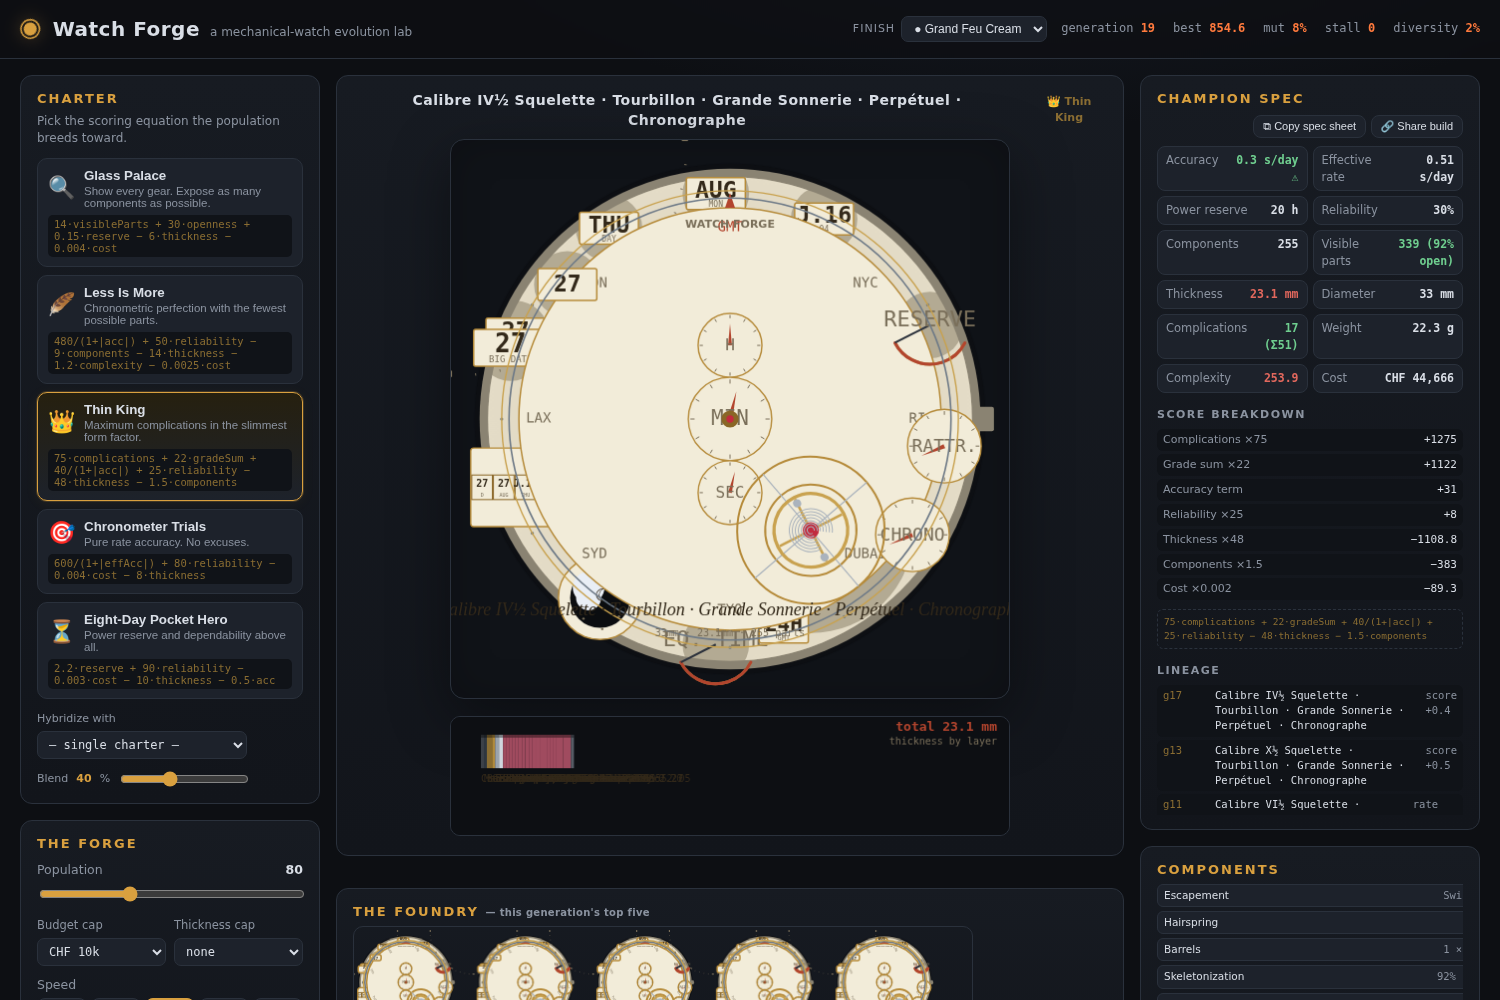
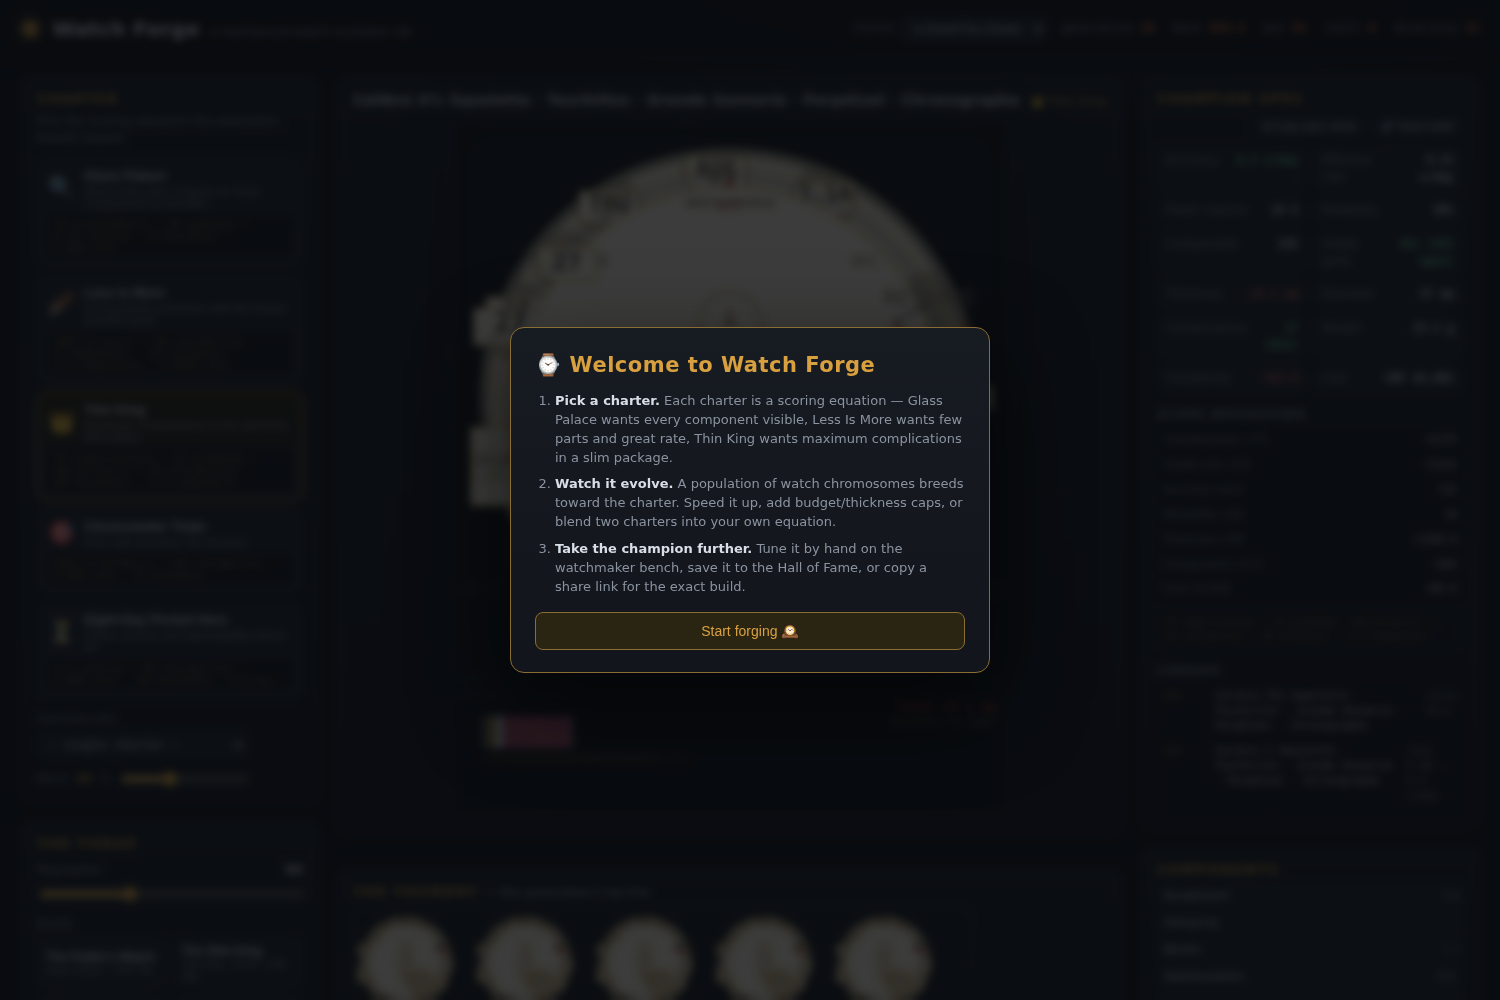
Watch Forge: first-run briefing + named briefs
- Three-step onboarding overlay (localStorage-persisted dismissal; primes
  audio on the dismiss click for autoplay policies)
- Named briefs in the Forge card: one-click charter+cap+blend scenarios
  (Public's Watch, Slim King, School of Chronometry, Traveler) that reuse
  the real charter/hybrid/constraint paths
- 2 new e2e checks (17 total); docs updated

diff --git a/active/games/watch-forge/game.js b/active/games/watch-forge/game.js
@@ -76,6 +76,8 @@
     hof: $('#hofList'), saveHof: $('#saveHofBtn'),
     exportBtn: $('#exportBtn'),
     shareBtn: $('#shareBtn'),
+    briefList: $('#briefList'),
+    briefing: $('#briefing'), briefingDismiss: $('#briefingDismiss'),
     lineup: $('#lineupCanvas'),
     themePick: $('#themePick'),
     budgetCap: $('#budgetCap'), thicknessCap: $('#thicknessCap'),
@@ -667,14 +669,74 @@
   }
 
   // -----------------------------------------------------------------------
+  // Named briefs — preconfigured charter + constraint scenarios
+  // -----------------------------------------------------------------------
+  const BRIEFS = [
+    { id: 'public', label: 'The Public’s Watch', hint: 'Glass Palace · CHF 15k',
+      challengeId: 'skeleton', budget: 15000, thickness: 12, hybrid: null },
+    { id: 'slim', label: 'The Slim King', hint: 'Thin King · 8 mm · CHF 30k',
+      challengeId: 'grandComplication', budget: 30000, thickness: 8, hybrid: null },
+    { id: 'chrono', label: 'The School of Chronometry', hint: 'Chronometer · CHF 8k · 8 mm',
+      challengeId: 'chronometer', budget: 8000, thickness: 8, hybrid: null },
+    { id: 'traveler', label: 'The Traveler', hint: '60/40 Thin King × Chronometer · CHF 20k',
+      challengeId: 'grandComplication', budget: 20000, thickness: 0,
+      hybrid: { primary: 'grandComplication', secondary: 'chronometer', weight: 0.4 } },
+  ];
+
+  function buildBriefs() {
+    els.briefList.innerHTML = BRIEFS.map(b =>
+      `<button class="brief" data-id="${b.id}"><b>${b.label}</b><span>${b.hint}</span></button>`).join('');
+    els.briefList.querySelectorAll('.brief').forEach(btn => {
+      btn.addEventListener('click', () => {
+        const brief = BRIEFS.find(b => b.id === btn.dataset.id);
+        applyBrief(brief);
+      });
+    });
+  }
+
+  function applyBrief(brief) {
+    // 1) Charter (reuses the real charter-click path).
+    const btn = els.challenges.querySelector(`.challenge[data-id="${brief.challengeId}"]`);
+    if (btn) btn.click();
+    // 2) Hybrid blend, if the brief carries one.
+    if (brief.hybrid) {
+      els.hybridSel.value = brief.hybrid.secondary;
+      els.hybridSel.dispatchEvent(new Event('change'));
+      els.hybridWeight.value = String(Math.round(brief.hybrid.weight * 100));
+      els.hybridWeight.dispatchEvent(new Event('input'));
+    }
+    // 3) Constraint caps.
+    els.budgetCap.value = String(brief.budget || 0);
+    els.thicknessCap.value = String(brief.thickness || 0);
+    els.budgetCap.dispatchEvent(new Event('change'));
+    els.thicknessCap.dispatchEvent(new Event('change'));
+    G.history.push({ gen: G.generation, name: G.champion.pheno.name, note: `brief: ${brief.label}` });
+    updateChampionUI();
+  }
+
+  // -----------------------------------------------------------------------
   // Init
   // -----------------------------------------------------------------------
   function init() {
     els.rngSeed.textContent = String(G.rngSeed);
     buildChallenges();
     buildSpeeds();
+    buildBriefs();
     buildWatchmaker();
     loadHof(); renderHof();
+
+    // First-run briefing.
+    let seenBriefing = true;
+    try { seenBriefing = !!localStorage.getItem('watchforge.seen'); } catch { /* private mode */ }
+    if (!seenBriefing) {
+      els.briefing.hidden = false;
+      els.briefingDismiss.addEventListener('click', () => {
+        els.briefing.hidden = true;
+        try { localStorage.setItem('watchforge.seen', '1'); } catch { /* ignored */ }
+        // Prime audio for the first time interactively (autoplay policies).
+        if (els.soundTick.checked) { G.soundOn = true; S.setEnabled(true); }
+      });
+    }
 
     els.popSize.addEventListener('input', () => {
       G.popSize = Number(els.popSize.value);

diff --git a/active/games/watch-forge/index.html b/active/games/watch-forge/index.html
@@ -57,6 +57,10 @@
           <label for="popSize">Population <b id="popSizeVal">80</b></label>
           <input type="range" id="popSize" min="20" max="200" step="10" value="80">
         </div>
+        <div class="control-row">
+          <label>Briefs</label>
+          <div id="briefList" class="brief-row"></div>
+        </div>
         <div class="control-grid">
           <label>Budget cap
             <select id="budgetCap">
@@ -173,6 +177,18 @@
     <p>Every champion renders as a live skeletonized movement — gears mesh, the escapement ticks, the balance swings.</p>
     <p>Watch Forge · vanilla JS + Canvas 2D, no build step</p>
   </footer>
+
+  <div id="briefing" class="briefing" hidden>
+    <div class="briefing-card">
+      <h2>⌚ Welcome to Watch Forge</h2>
+      <ol class="briefing-steps">
+        <li><b>Pick a charter.</b> Each charter is a scoring equation — Glass Palace wants every component visible, Less Is More wants few parts and great rate, Thin King wants maximum complications in a slim package.</li>
+        <li><b>Watch it evolve.</b> A population of watch chromosomes breeds toward the charter. Speed it up, add budget/thickness caps, or blend two charters into your own equation.</li>
+        <li><b>Take the champion further.</b> Tune it by hand on the watchmaker bench, save it to the Hall of Fame, or copy a share link for the exact build.</li>
+      </ol>
+      <button id="briefingDismiss" class="btn btn-accent">Start forging 🕰</button>
+    </div>
+  </div>
 
   <script src="data.js"></script>
   <script src="watch.js"></script>

diff --git a/active/games/watch-forge/style.css b/active/games/watch-forge/style.css
@@ -294,6 +294,36 @@ html, body {
 .foot { padding: 18px 20px 30px; color: var(--dim); font-size: 12px; text-align: center; }
 .foot p { margin: 2px 0; }
 
+/* ---------- briefs + briefing ---------- */
+.brief-row { display: flex; gap: 6px; flex-wrap: wrap; }
+.brief {
+  flex: 1; min-width: 120px; text-align: left;
+  background: var(--card2); color: var(--text);
+  border: 1px solid var(--line); border-radius: 8px;
+  padding: 6px 8px; font-size: 11px; cursor: pointer;
+}
+.brief b { display: block; font-size: 12px; }
+.brief span { color: var(--dim); font-size: 10px; }
+.brief:hover { border-color: var(--brass-dark); }
+.briefing {
+  position: fixed; inset: 0; z-index: 50;
+  display: flex; align-items: center; justify-content: center;
+  background: rgba(8, 10, 14, 0.78);
+  backdrop-filter: blur(4px);
+}
+.briefing-card {
+  max-width: 480px; margin: 16px;
+  background: linear-gradient(180deg, var(--card), var(--bg2));
+  border: 1px solid var(--brass-dark); border-radius: 14px;
+  padding: 22px 24px;
+  box-shadow: 0 30px 90px #00000099;
+}
+.briefing-card h2 { margin: 0 0 12px; text-transform: none; letter-spacing: 0.5px; color: var(--brass); }
+.briefing-steps { margin: 0 0 16px; padding-left: 20px; color: var(--dim); font-size: 13px; }
+.briefing-steps li { margin: 8px 0; }
+.briefing-steps b { color: var(--text); }
+.briefing-card .btn { width: 100%; padding: 10px; font-size: 14px; }
+
 /* ---------- scrollbars ---------- */
 ::-webkit-scrollbar { width: 8px; height: 8px; }
 ::-webkit-scrollbar-thumb { background: var(--line); border-radius: 4px; }

diff --git a/active/games/watch-forge/docs/index.md b/active/games/watch-forge/docs/index.md
@@ -107,6 +107,15 @@ accuracy, effectiveAccuracy (= accuracy × (2 − reliability)), reliability.
   48-member population snapshot so an accidental reload resumes the same
   lab (`loadSession`), while a `#watch=` link always takes precedence.
 
+## Onboarding & briefs
+
+- **First-run briefing** — a three-step overlay (charter → evolve → take the
+  champion further) that appears once and is persisted in localStorage.
+- **Named briefs** — one-click scenarios that set charter + caps + blend:
+  “The Public’s Watch” (Glass Palace, CHF 15k), “The Slim King” (Thin King,
+  8 mm, CHF 30k), “The School of Chronometry” (Chronometer, CHF 8k, 8 mm),
+  and “The Traveler” (60/40 Thin King × Chronometer, CHF 20k).
+
 ## UI (`game.js`, `index.html`)
 
 Three columns: charter + forge controls + Hall of Fame · live dial +
